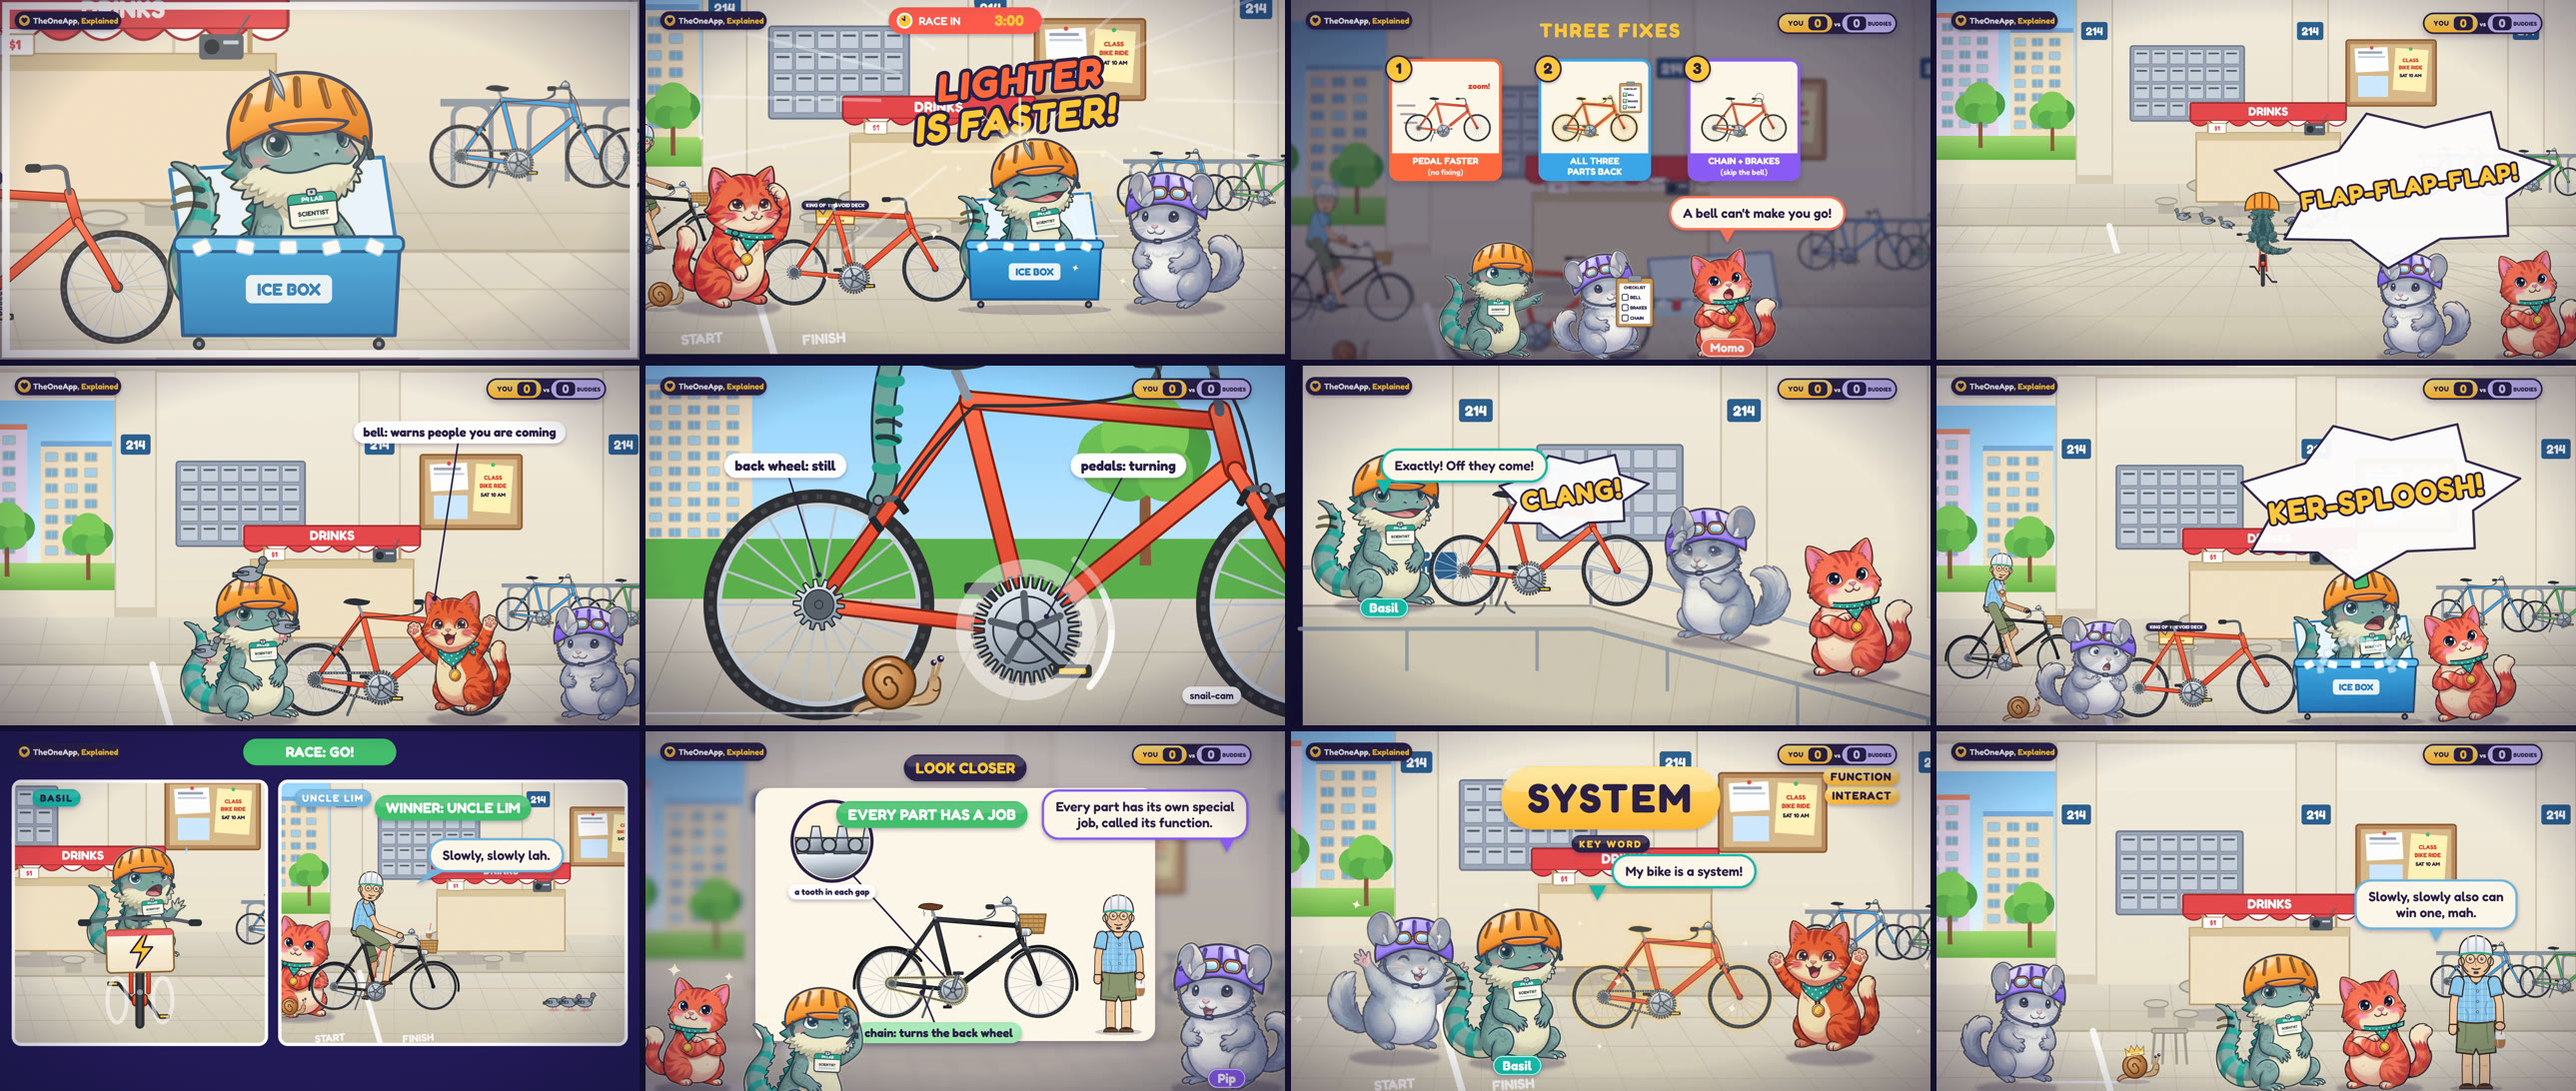
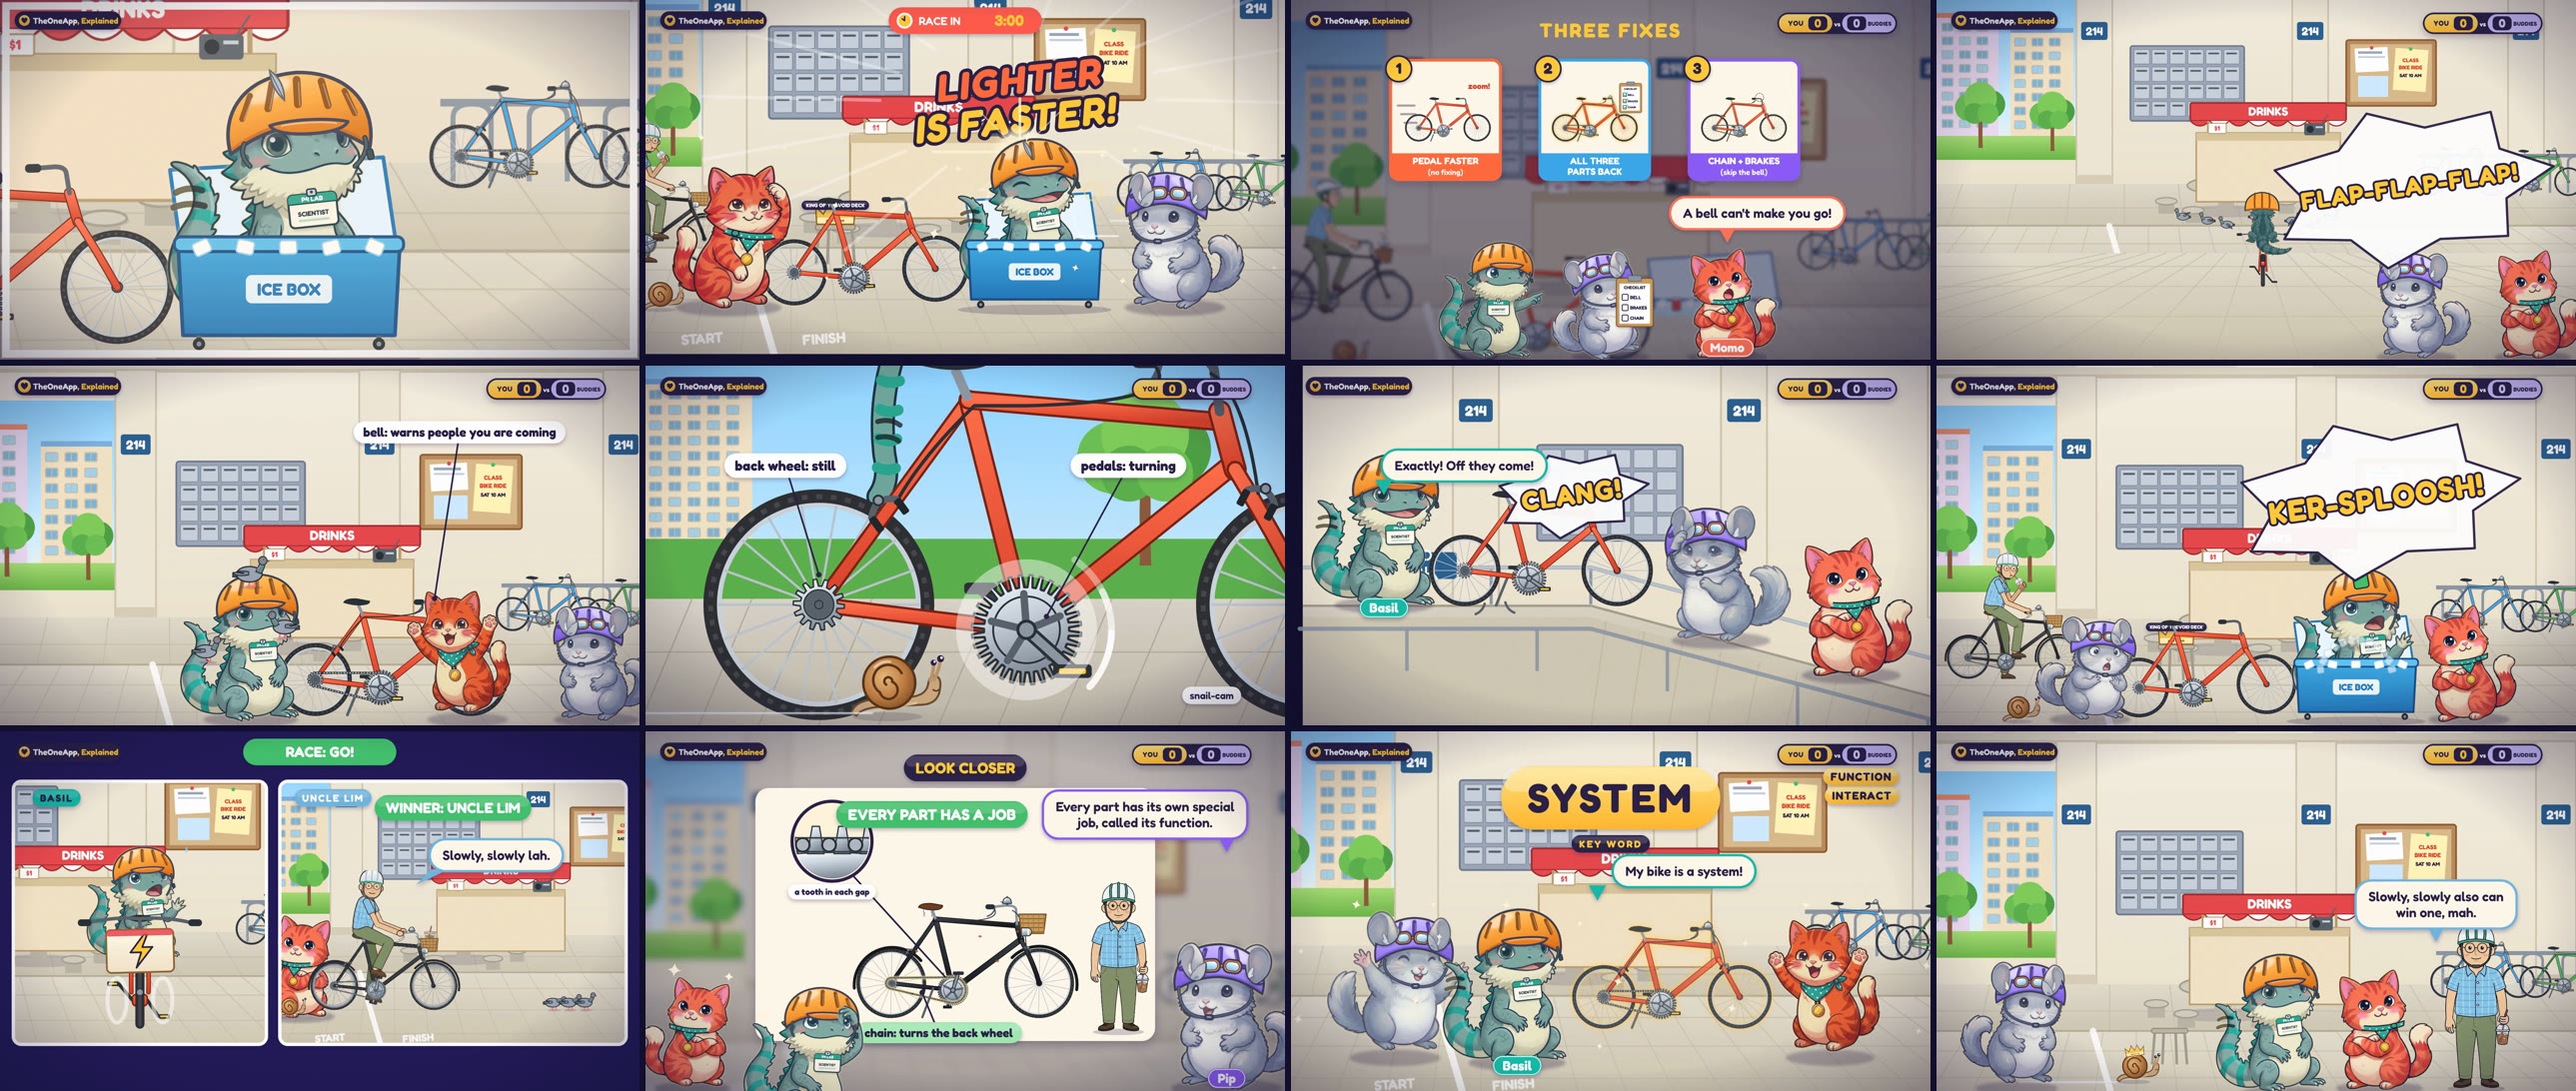
P4 EP1 v2 fix pass 5: painted Uncle Lim rendered (VERIFY OK, audio bit-identical, 7:16.2); QA, key frames, sheet, STATE (not uploaded)
Claude-Session: https://claude.ai/code/session_017vcscXTweEdXk7zMTDrzTD

diff --git a/production/workspace/explained2/p4ep01v2/STATE.md b/production/workspace/explained2/p4ep01v2/STATE.md
@@ -136,3 +136,27 @@ a little further back on the chain). Hint #2 checked in the video at frames 9921
   unchanged; timings unchanged. Scans on the final code: no ghosting, no backwards movers, flicker 10 JUMPs (the camera cuts) no POP/GONE,
   overlap.js no face, face_cover_scan the same 68 runs as before (all reviewed, by design). Before/after sheet: scratchpad
   p4items/momo_painted_before_after.jpg; key frames, sheet.png and the four review clips refreshed.
+
+## Fix pass 5: the teacher's painted Uncle Lim (27 Nov 2026; NOT uploaded)
+- Paintings: `../characters/teacher_uncle_lim_2026-11-27/` (8 views; the three standing ones repainted by the teacher in LONG trousers,
+  `*_trousers.jpg`, used exactly as painted). **One outfit, long green trousers**: only the head-on ride (`lim_ride_front.jpg`, shorts) was
+  edited, by `../characters/lim/trousers.py` -> `../characters/lim/lim_ride_front_trousers.png` (each shin's skin covered by a trouser leg:
+  the convex hull, the shorts' green, a 5 px outline where it does not meet the shorts, a crease). Sheet: scratchpad p4items/lim_trousers_edit.jpg.
+  Switching back to shorts would be `SRC` in cut_lim.py (the original jpgs) + a re-cut; the riding side and rear views exist in trousers only.
+- Cut-outs: `../characters/lim/cut_lim.py` -> `cut/lim_<view>.png` + `cut/lim.json` (cutout.cutout flood, enclosed paper cleared, the helmet
+  shell restored where the flood leaked in, the painted spokes cleared inside the tyres). ONE scale: the helmet 140 local units wide in
+  every standing / head-on / rear view; the three side views fitted to the code roadster (rear and front wheel centres on RD.RA / RD.FA,
+  tyres on the ground line; their helmets come out 124-143). `lim_sprites.py` copies them to `spr/lim_<view>.png` + manifest entries.
+- limv2.js (the end): with `LIM_PAINTED = true` limRideV2 / limStand / limFrontRideV2 / limRearRideV2 draw the paintings. Side view: code
+  spokes + rim + hub turning with the distance (the crank's wheel angle, as the code roadster) BEHIND the painting; the painted tyre stays.
+  **He coasts (option b)**: crank and feet still (a two-bone pedal cycle cut from the painted leg would not look clean at this size); no body
+  bob (the painted tyres must stay on the ground). Views: side (riding, looking ahead; the "side" painting has no bell, so a small code bell
+  sits on its bar), look (the WINNER split screen and his line r703), sidesip (stopped and sipping: the cold open, the ice box, after r703;
+  never while he talks), front (race trailer), back (victory lap), stand (look-closer, finish, e1303), sip (a pause: look-closer, before
+  e1301), wave (the finish's clap). Ring: the bell wobbles + a small sparkle; the sound as before.
+- QA: `limHeadBox` marks his face for qa/face_cover_scan.js (no pixels).
+- **Render (27 Nov, about 03:00-03:15 UTC):** full re-render to a new file, checked against the fix-pass-4 mp4 before replacing it:
+  VERIFY OK (13086 frames = 7:16.2, decode 0, audio packets bit-identical, streams identical; frames before 10.37 s bit-identical).
+  -16.0 LUFS, -1.9 dBTP; srt and timings unchanged. Scans: no ghosting, no backwards movers, flicker 10 JUMPs (camera cuts) no POP/GONE,
+  overlap.js no face, face_cover_scan the same 68 by-design runs (Uncle Lim's face only under the trailer push-in panel at 3:05, as
+  before). Every Lim scene checked as stills at full size. Before/after: scratchpad p4items/lim_painted_before_after.jpg.

diff --git a/production/workspace/explained2/REOPEN_PROGRESS.md b/production/workspace/explained2/REOPEN_PROGRESS.md
@@ -170,3 +170,4 @@
 - 16:16 UTC 26 Nov: P4 EP1 v2 FIX PASS 2 rendered (not uploaded): p4ep01v2/p4ep01v2.mp4 7:16.2 (13086 frames), -16.0 LUFS, -1.9 dBTP, decode 0; Uncle Lim redrawn (limv2.js), light Singlish lines (lah/mah/Aiyoh via sg_pron shape_particles; clip pron_clips/UncleLim_p4ep01v2_voice_test.mp3), Momo neckerchief (option N), ice-box spacing; ghost/facing/flicker/overlap clean (no face overlaps); hint #2 now 5:30.7 frames 9921-9926.
 - 16:40 UTC 26 Nov: P4 EP1 v2 FIX PASS 3 (faces) spliced (not uploaded): race bubble beside Uncle Lim (one line, clear of his head and the WINNER pill), Momo behind his bike; new qa/face_cover_scan.js (bubbles/pills/cards/sprites vs every face incl. Lim, snail, Chilli) over the whole video, 12 more spots fixed; splice VERIFY OK, 7:16.2, -16.0 LUFS, -1.9 dBTP, decode 0.
 - 02:22 UTC 27 Nov: P4 EP1 v2 FIX PASS 4 rendered (not uploaded): the teacher's painted Momo (neckerchief + gold medal) in arms_crossed/thinking/pointing/cheer/surprised (cut out as sprites/poses/momo_nk_*, same scale/feet line as momo_v2), code neckerchief with the gold medal on the other poses, magnifier now a hand-held prop at b404 and l803; full re-render to a new file, VERIFY OK vs the verified mp4 (audio bit-identical), 7:16.2, -16.0 LUFS, -1.9 dBTP; all scans clean.
+- 03:13 UTC 27 Nov: P4 EP1 v2 FIX PASS 5 rendered (not uploaded): the teacher's painted Uncle Lim (8 views, long trousers; head-on shorts lengthened in code; one scale; side bikes on the roadster's wheel centres; code spokes turning behind the painted tyres, he coasts); VERIFY OK vs fix pass 4 (audio bit-identical), 7:16.2, -16.0 LUFS, -1.9 dBTP; all scans clean.
